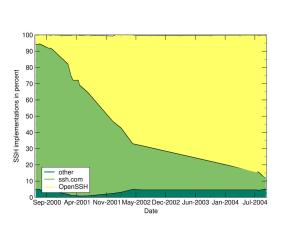
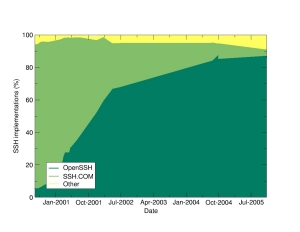
New SSH usage stats, compiled with the assistance of Mark T. Uemura

diff --git a/openssh/usage/ssh-stats.html b/openssh/usage/ssh-stats.html
@@ -7,42 +7,47 @@
 <body BGCOLOR="#FFFFFF" TEXT="#000000" LINK="#23238E">
 <h1>Statistics from the current scan results</h1>
 The current statistics are compiled from results of SSH version
-scans in September 2004.
-<h2>Internet in September 2004</h2>
-Sample size: 5 Million random addresses
+scans in November 2005.
+
+<h2>Internet in November 2005</h2>
+
+Sample size: 16.8 Million random addresses
 
 <h4>Different protocol versions:</h4>
 <table border=0>
-<tr><td align=right> 0.02% </td><td>&nbsp;</td><td> 1.3 </td></tr>
-<tr><td align=right> 8.59% </td><td>&nbsp;</td><td> 1.5 </td></tr>
-<tr><td align=right> 73.30% </td><td>&nbsp;</td><td> 1.99 </td></tr>
-<tr><td align=right> 18.10% </td><td>&nbsp;</td><td> 2.0 </td></tr>
+<tr><td align=right>  0.14%</td><td>&nbsp;</td><td>1.0</td></tr>
+<tr><td align=right>  0.02%</td><td>&nbsp;</td><td>1.3</td></tr>
+<tr><td align=right>  6.02%</td><td>&nbsp;</td><td>1.5</td></tr>
+<tr><td align=right> 63.61%</td><td>&nbsp;</td><td>1.99</td></tr>
+<tr><td align=right> 30.21%</td><td>&nbsp;</td><td>2.0</td></tr>
 </table>
 
 <h4>Different SSH daemons:</h4>
-<table border=0>
-<tr><td align=right> 2.17% </td><td>&nbsp;</td><td> Cisco-1.5 </td></tr>
-<tr><td align=right> 0.43% </td><td>&nbsp;</td><td> Cisco-1.99 </td></tr>
-<tr><td align=right> 0.10% </td><td>&nbsp;</td><td> Cisco-2.0 </td></tr>
-<tr><td align=right> 0.60% </td><td>&nbsp;</td><td> OpenSSH-1.5 </td></tr>
-<tr><td align=right> 72.13% </td><td>&nbsp;</td><td> OpenSSH-1.99 </td></tr>
-<tr><td align=right> 15.17% </td><td>&nbsp;</td><td> OpenSSH-2.0 </td></tr>
-<tr><td align=right> 0.02% </td><td>&nbsp;</td><td> Other-1.3 </td></tr>
-<tr><td align=right> 0.43% </td><td>&nbsp;</td><td> Other-1.5 </td></tr>
-<tr><td align=right> 0.41% </td><td>&nbsp;</td><td> Other-1.99 </td></tr>
-<tr><td align=right> 1.05% </td><td>&nbsp;</td><td> Other-2.0 </td></tr>
-<tr><td align=right> 5.38% </td><td>&nbsp;</td><td> SSH-1.5 </td></tr>
-<tr><td align=right> 0.32% </td><td>&nbsp;</td><td> SSH-1.99 </td></tr>
-<tr><td align=right> 1.22% </td><td>&nbsp;</td><td> SSH-2.0 </td></tr>
-<tr><td align=right> 0.02% </td><td>&nbsp;</td><td> Sun_SSH-1.99 </td></tr>
-<tr><td align=right> 0.56% </td><td>&nbsp;</td><td> Sun_SSH-2.0 </td></tr>
+<table noborder>
+<tr><td align=right>  2.65%</td><td>&nbsp;</td><td>Cisco-1.5</td></tr>
+<tr><td align=right>  0.83%</td><td>&nbsp;</td><td>Cisco-1.99</td></tr>
+<tr><td align=right>  0.15%</td><td>&nbsp;</td><td>Cisco-2.0</td></tr>
+<tr><td align=right>  0.59%</td><td>&nbsp;</td><td>OpenSSH-1.5</td></tr>
+<tr><td align=right> 61.54%</td><td>&nbsp;</td><td>OpenSSH-1.99</td></tr>
+<tr><td align=right> 24.97%</td><td>&nbsp;</td><td>OpenSSH-2.0</td></tr>
+<tr><td align=right>  0.14%</td><td>&nbsp;</td><td>Other-1.0</td></tr>
+<tr><td align=right>  1.02%</td><td>&nbsp;</td><td>Other-1.5</td></tr>
+<tr><td align=right>  0.69%</td><td>&nbsp;</td><td>Other-1.99</td></tr>
+<tr><td align=right>  2.80%</td><td>&nbsp;</td><td>Other-2.0</td></tr>
+<tr><td align=right>  0.02%</td><td>&nbsp;</td><td>SSH-1.3</td></tr>
+<tr><td align=right>  1.76%</td><td>&nbsp;</td><td>SSH-1.5</td></tr>
+<tr><td align=right>  0.55%</td><td>&nbsp;</td><td>SSH-1.99</td></tr>
+<tr><td align=right>  1.73%</td><td>&nbsp;</td><td>SSH-2.0</td></tr>
+<tr><td align=right>  0.01%</td><td>&nbsp;</td><td>Sun-1.99</td></tr>
+<tr><td align=right>  0.56%</td><td>&nbsp;</td><td>Sun-2.0</td></tr>
 </table>
+
 <hr>
 <a href="index.html"><img height=24 width=24 src="../back.gif" border=0 alt=OpenSSH></a>
 <a href="mailto:www@openbsd.org">www@openbsd.org</a>
 <br>
 <hr>
 <em>This site Copyright &copy; 2001-2004 OpenBSD.</em><br>
-<small>$OpenBSD: ssh-stats.html,v 1.10 2004/09/26 23:39:51 djm Exp $</small>
+<small>$OpenBSD: ssh-stats.html,v 1.11 2006/02/01 11:48:35 djm Exp $</small>
 </body>
 </html>
